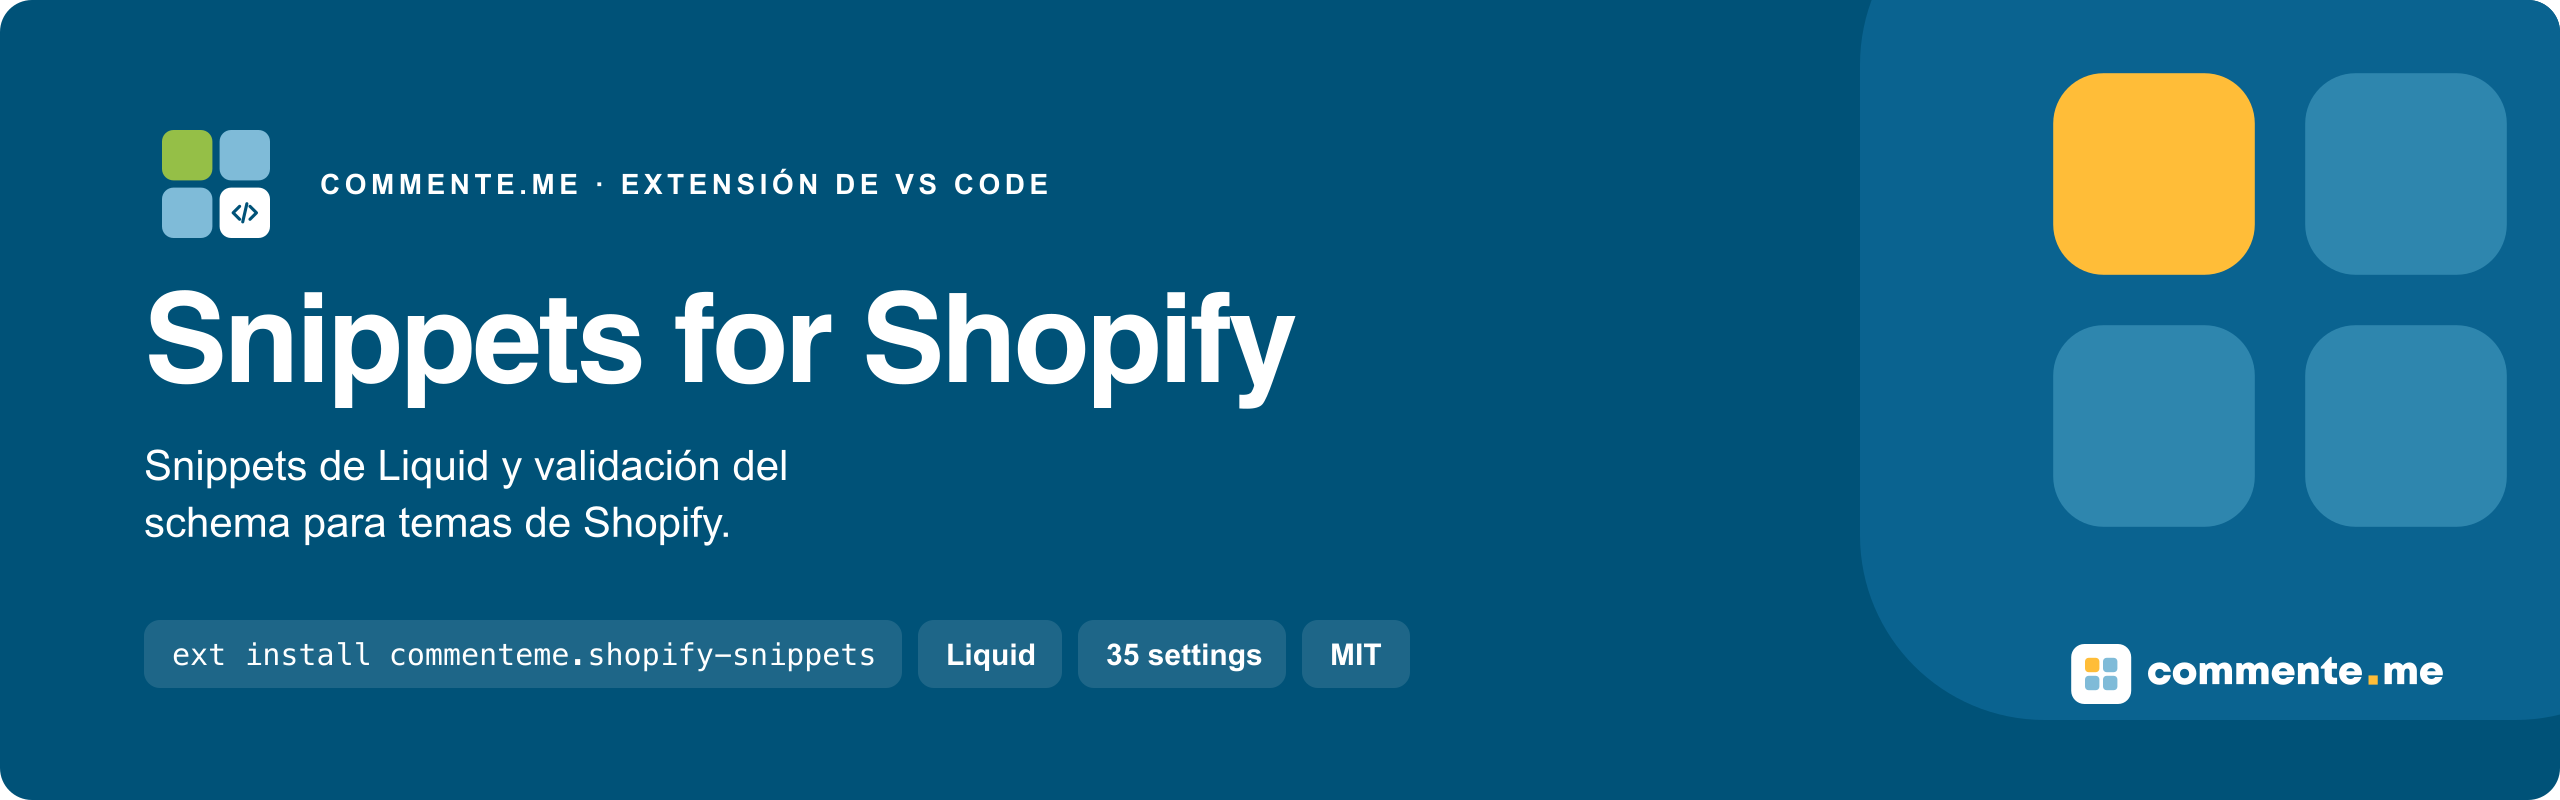
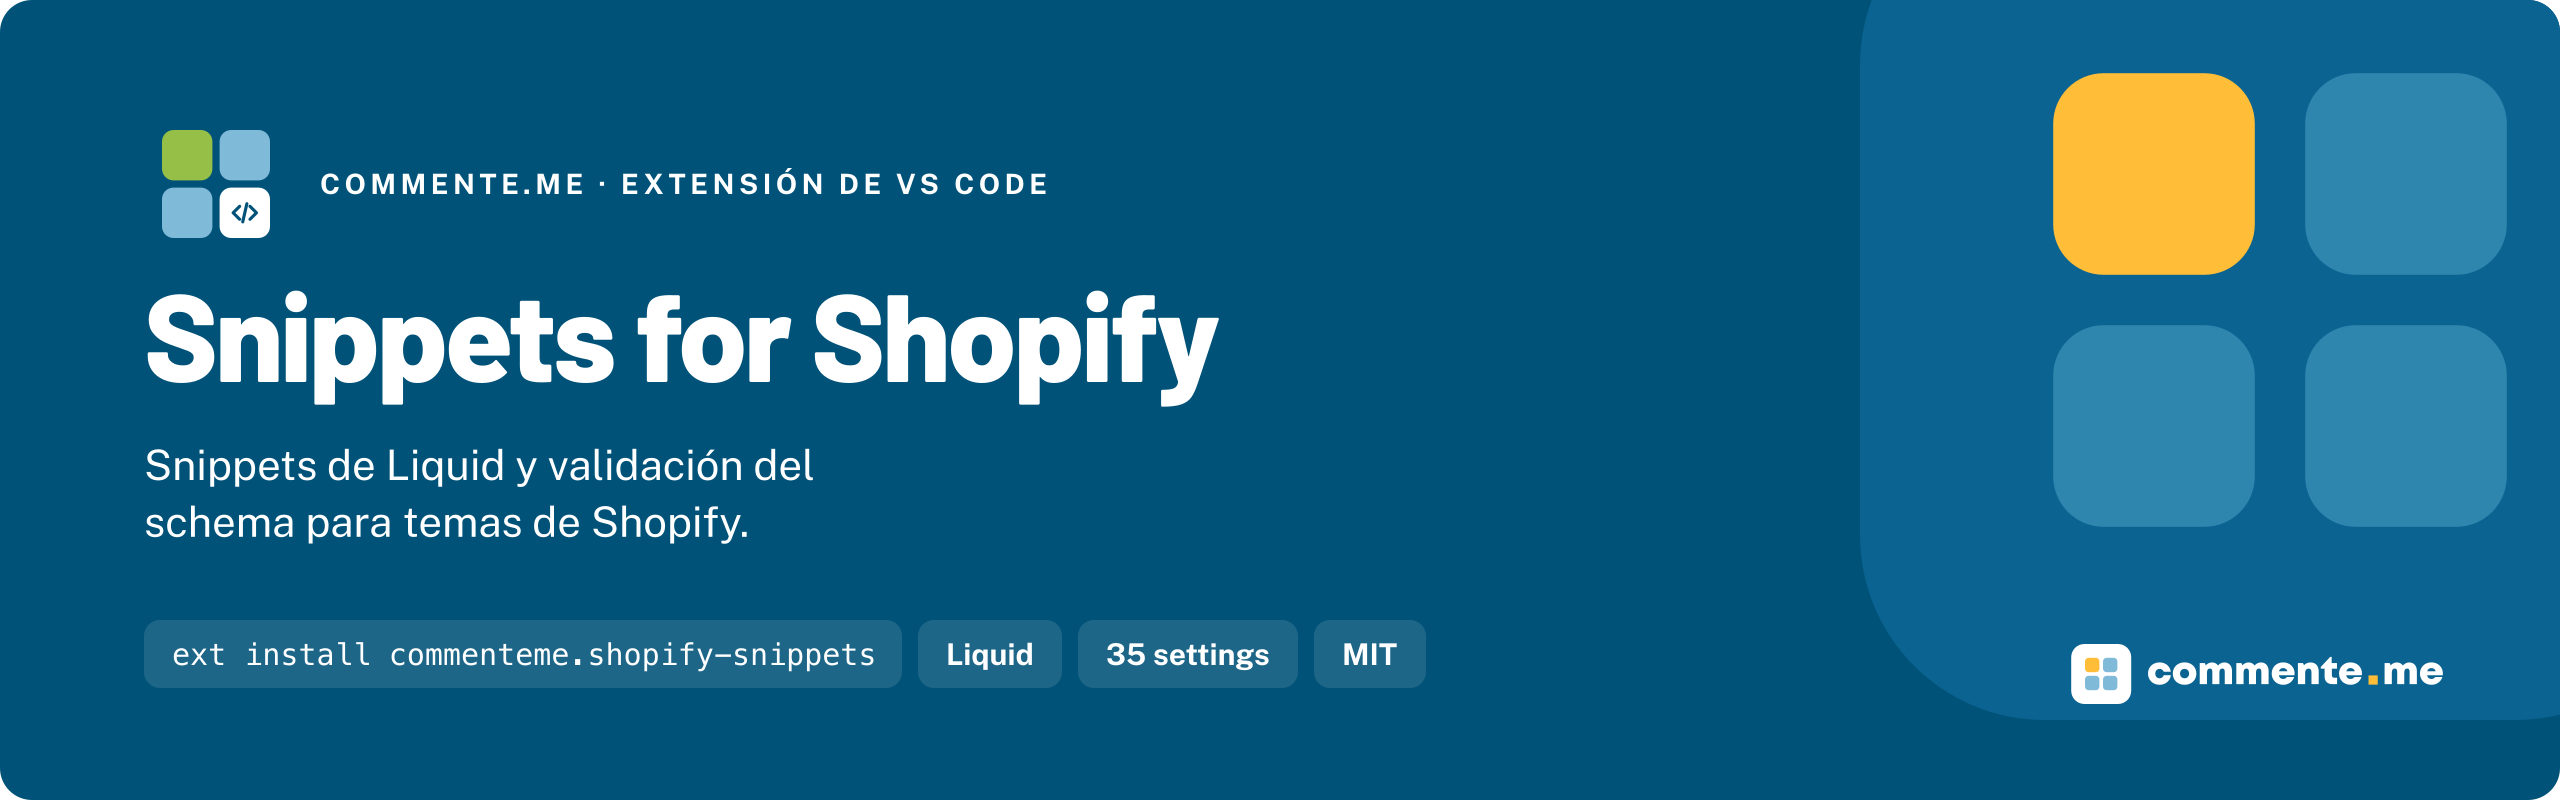
docs: README e header no padrão Atacama
Regenera o banner e o social preview com o banner.py atual (nome em Barlow 800), troca o rodapé para hablecon@commente.me e tira um parágrafo repetido em Configuración.

diff --git a/README.md b/README.md
@@ -46,7 +46,6 @@ tema Horizon real, sin falsos positivos.
 
 ## Documentación
 
-
 ### Tags y filtros de Liquid
 
 En cualquier `.liquid`, escribe el nombre de la tag (`if`, `for`, `paginate`, `form`, `render`, `content_for`...) o,
@@ -100,9 +99,6 @@ el enlace a shopify.dev.
 | `shopifySnippets.validarSchema` | `true` | Valida el `{% schema %}` de `sections/*.liquid` y `blocks/*.liquid` |
 
 No tiene comandos.
-
-No colorea la sintaxis de Liquid: registra el lenguaje `liquid` para los snippets y la validación, y convive con
-cualquier extensión que traiga la gramática, como la oficial de Shopify.
 
 No colorea la sintaxis de Liquid: registra el lenguaje `liquid` para los snippets y la validación, y convive con
 cualquier extensión que traiga la gramática, como la oficial de Shopify.
@@ -173,4 +169,4 @@ Conventional Commits, rama desde `dev` y PR contra `dev`; `npm run check` tiene 
 
 ---
 
-Hecho por [commente.me](https://commente.me) · hola@commente.me
+Hecho por [commente.me](https://www.commente.me) · hablecon@commente.me
